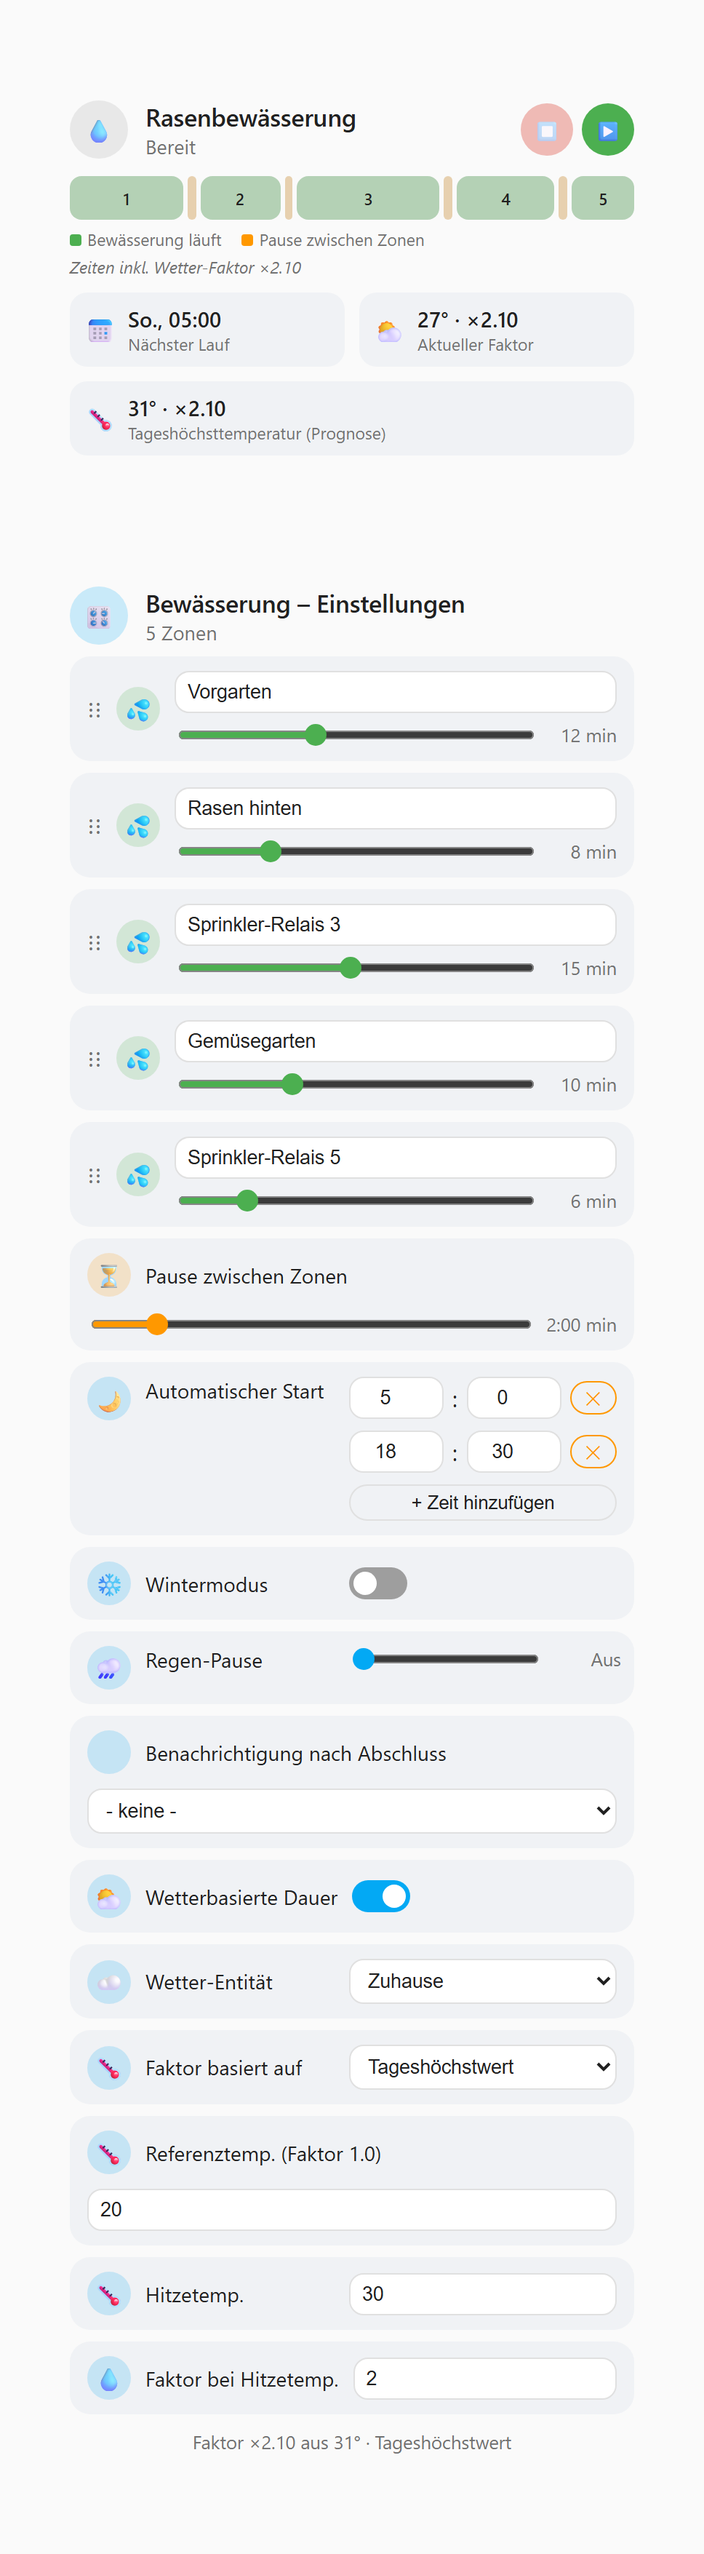
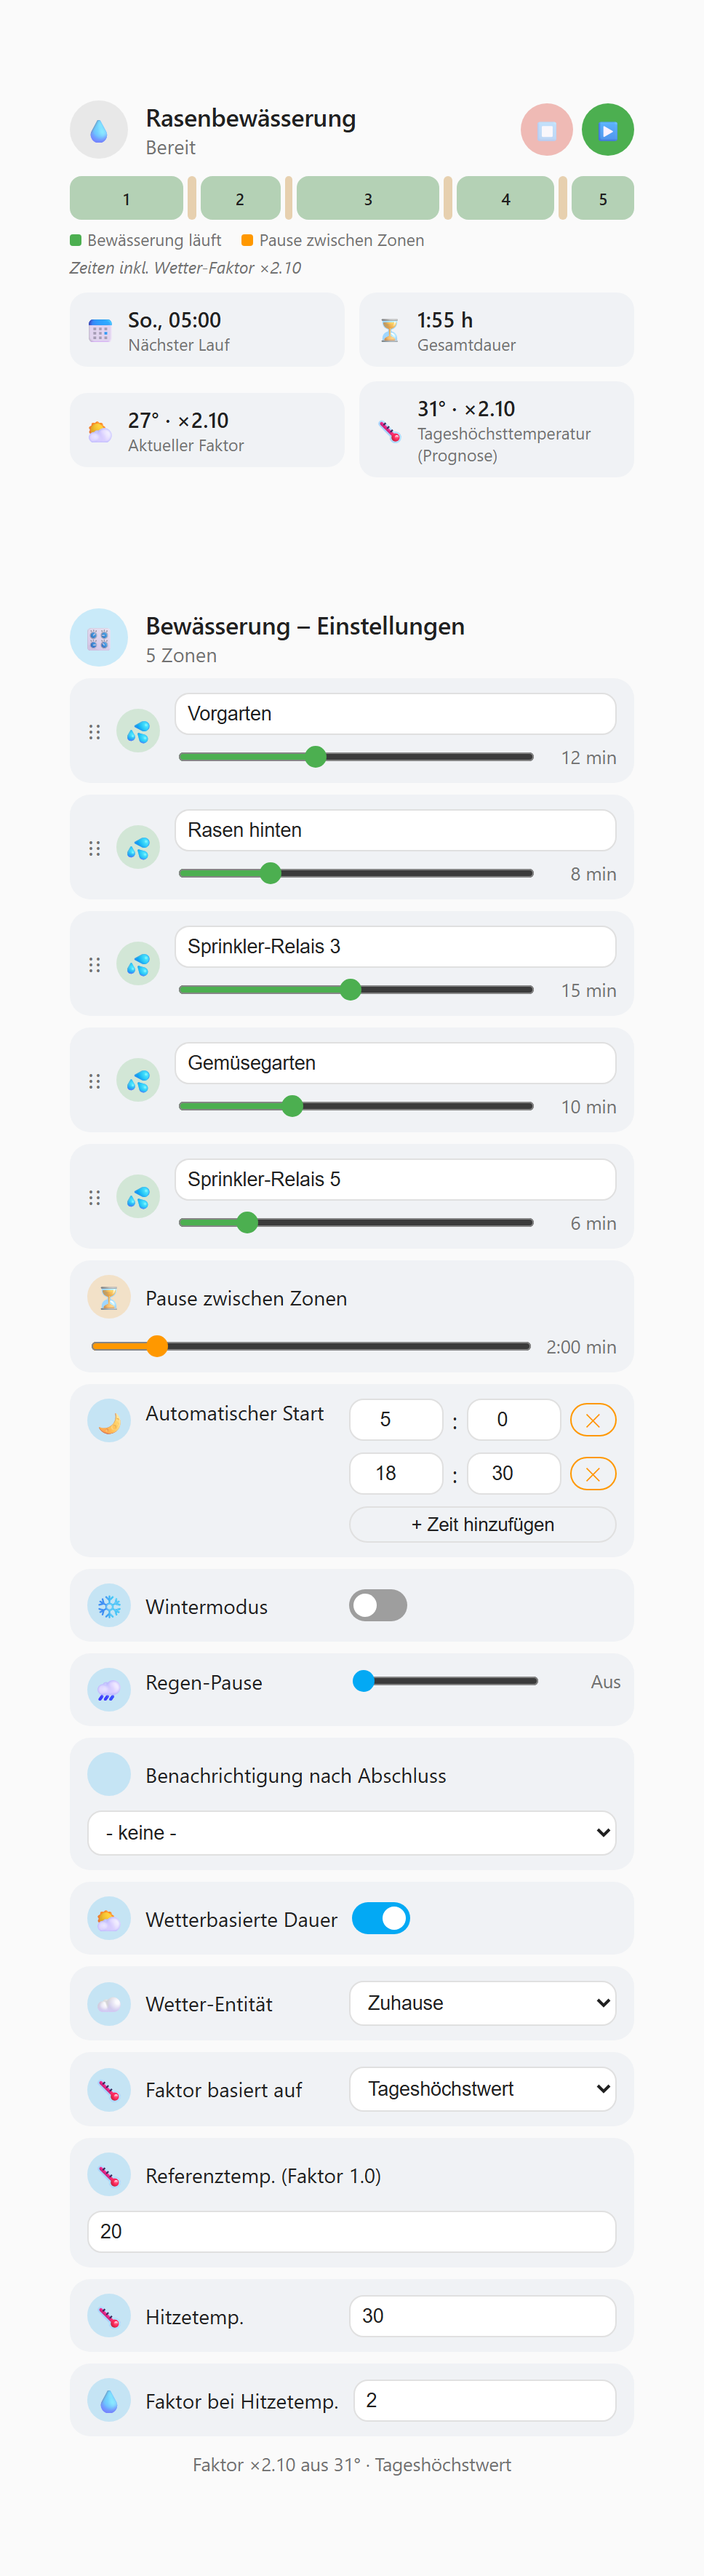
Show the run's total duration on the status card (v1.4.1)
The timeline shows how the zones relate to each other, not how long the
whole run takes - and since the weather factor landed that matters: at
x2.7 a 45-minute plan becomes a nearly two-hour run, deciding whether a
01:00 start finishes by morning or collides with the next start time. The
tile switches to the remaining total while a sequence runs.

This also puts scaled_total_seconds to use; 1.3.0 added the attribute for
exactly this purpose and then never displayed it.

Rendering the screenshots surfaced that formatSeconds turns a two-hour run
into "115:06 min" - correct, unreadable. Added formatDuration, which
switches to "1:55 h" past the hour and rounds to whole minutes there.

diff --git a/custom_components/irrigation_sequencer/frontend/irrigation-sequencer-card.js b/custom_components/irrigation_sequencer/frontend/irrigation-sequencer-card.js
@@ -22,7 +22,7 @@ const DEFAULT_ZONE_DURATION_MINUTES = 10;
 // browser console, whether an update actually took effect versus just
 // looking "the same" as before. Keep this in step with manifest.json's
 // "version" on every release.
-const CARD_VERSION = "1.4.0";
+const CARD_VERSION = "1.4.1";
 // eslint-disable-next-line no-console
 console.info(
   `%c IRRIGATION-SEQUENCER-CARD %c v${CARD_VERSION} `,
@@ -65,6 +65,8 @@ const TRANSLATIONS = {
     start: "Start now",
     stop: "Stop",
     nextRun: "Next run",
+    totalDuration: "Total duration",
+    totalRemaining: "Total remaining",
     remainingTotal: (t) => `${t} remaining (total)`,
     remainingZone: (t) => `${t} remaining`,
     dragHandle: "Drag to reorder",
@@ -121,6 +123,8 @@ const TRANSLATIONS = {
     start: "Jetzt starten",
     stop: "Stoppen",
     nextRun: "Nächster Lauf",
+    totalDuration: "Gesamtdauer",
+    totalRemaining: "Gesamt verbleibend",
     remainingTotal: (t) => `noch ${t} gesamt`,
     remainingZone: (t) => `noch ${t}`,
     dragHandle: "Ziehen zum Umsortieren",
@@ -223,6 +227,22 @@ function linearFactor(temp, referenceTemp, hotTemp, hotFactor) {
 /** Minutes with at most one decimal, without a trailing ".0" - a scaled
  * duration is rarely a whole number, but "7.5 min" reads better than
  * "7.5000000001 min" or a misleading rounded "8 min". */
+/** Duration for the total/remaining tile. formatSeconds() renders mm:ss,
+ * which is fine for a single zone but turns a two-hour run into
+ * "115:06 min" - technically right, unreadable in practice. Switch to
+ * hours past the hour mark and drop to whole minutes there, since seconds
+ * are noise at that scale. */
+function formatDuration(totalSeconds) {
+  const seconds = Math.max(0, Math.round(Number(totalSeconds) || 0));
+  const totalMinutes = Math.round(seconds / 60);
+  if (totalMinutes >= 60) {
+    const hours = Math.floor(totalMinutes / 60);
+    const minutes = totalMinutes % 60;
+    return `${hours}:${String(minutes).padStart(2, "0")} h`;
+  }
+  return formatSeconds(seconds);
+}
+
 function formatMinutes(minutes) {
   return (Math.round(minutes * 10) / 10).toString();
 }
@@ -724,6 +744,15 @@ class IrrigationSequencerStatusCard extends IrrigationSequencerBaseCard {
                 </div>
               </div>`
         }
+        <div class="stat" style="--tile-color: var(--success-color, #4caf50)">
+          <ha-icon icon="mdi:timer-sand"></ha-icon>
+          <div>
+            <div class="stat-value">${formatDuration(
+              isBusy ? remaining : attrs.scaled_total_seconds ?? attrs.estimated_total_seconds ?? 0
+            )}</div>
+            <div class="stat-label">${isBusy ? t.totalRemaining : t.totalDuration}</div>
+          </div>
+        </div>
         ${
           attrs.weather_adjustment_enabled && attrs.weather_current_temp != null
             ? `<div class="stat" style="--tile-color: var(--primary-color)">

diff --git a/CHANGELOG.md b/CHANGELOG.md
@@ -5,6 +5,23 @@ All notable changes to this project are documented here. Versioning follows
 `custom_components/irrigation_sequencer/manifest.json` and tagged as a
 GitHub release (`vX.Y.Z`) once pushed.
 
+## [1.4.1] - 2026-07-31
+
+- The status card now shows the run's **total duration** - the piece the
+  timeline couldn't convey. The bar shows how the zones relate to each
+  other, not how long the whole thing takes, and since the weather factor
+  landed that matters: at x2.7 a 45-minute plan becomes a nearly two-hour
+  run, which decides whether a 01:00 start is done by morning or collides
+  with the next start time. While a sequence runs, the same tile switches
+  to the remaining total.
+
+  This also puts `scaled_total_seconds` to use - 1.3.0 added the attribute
+  for exactly this and then never displayed it.
+
+- Long durations are no longer formatted as `115:06 min`. Past an hour the
+  value is shown as `1:55 h` and rounded to whole minutes, since seconds
+  are noise at that scale.
+
 ## [1.4.0] - 2026-07-31
 
 - **Changing a zone's duration now takes effect on the zone that is
